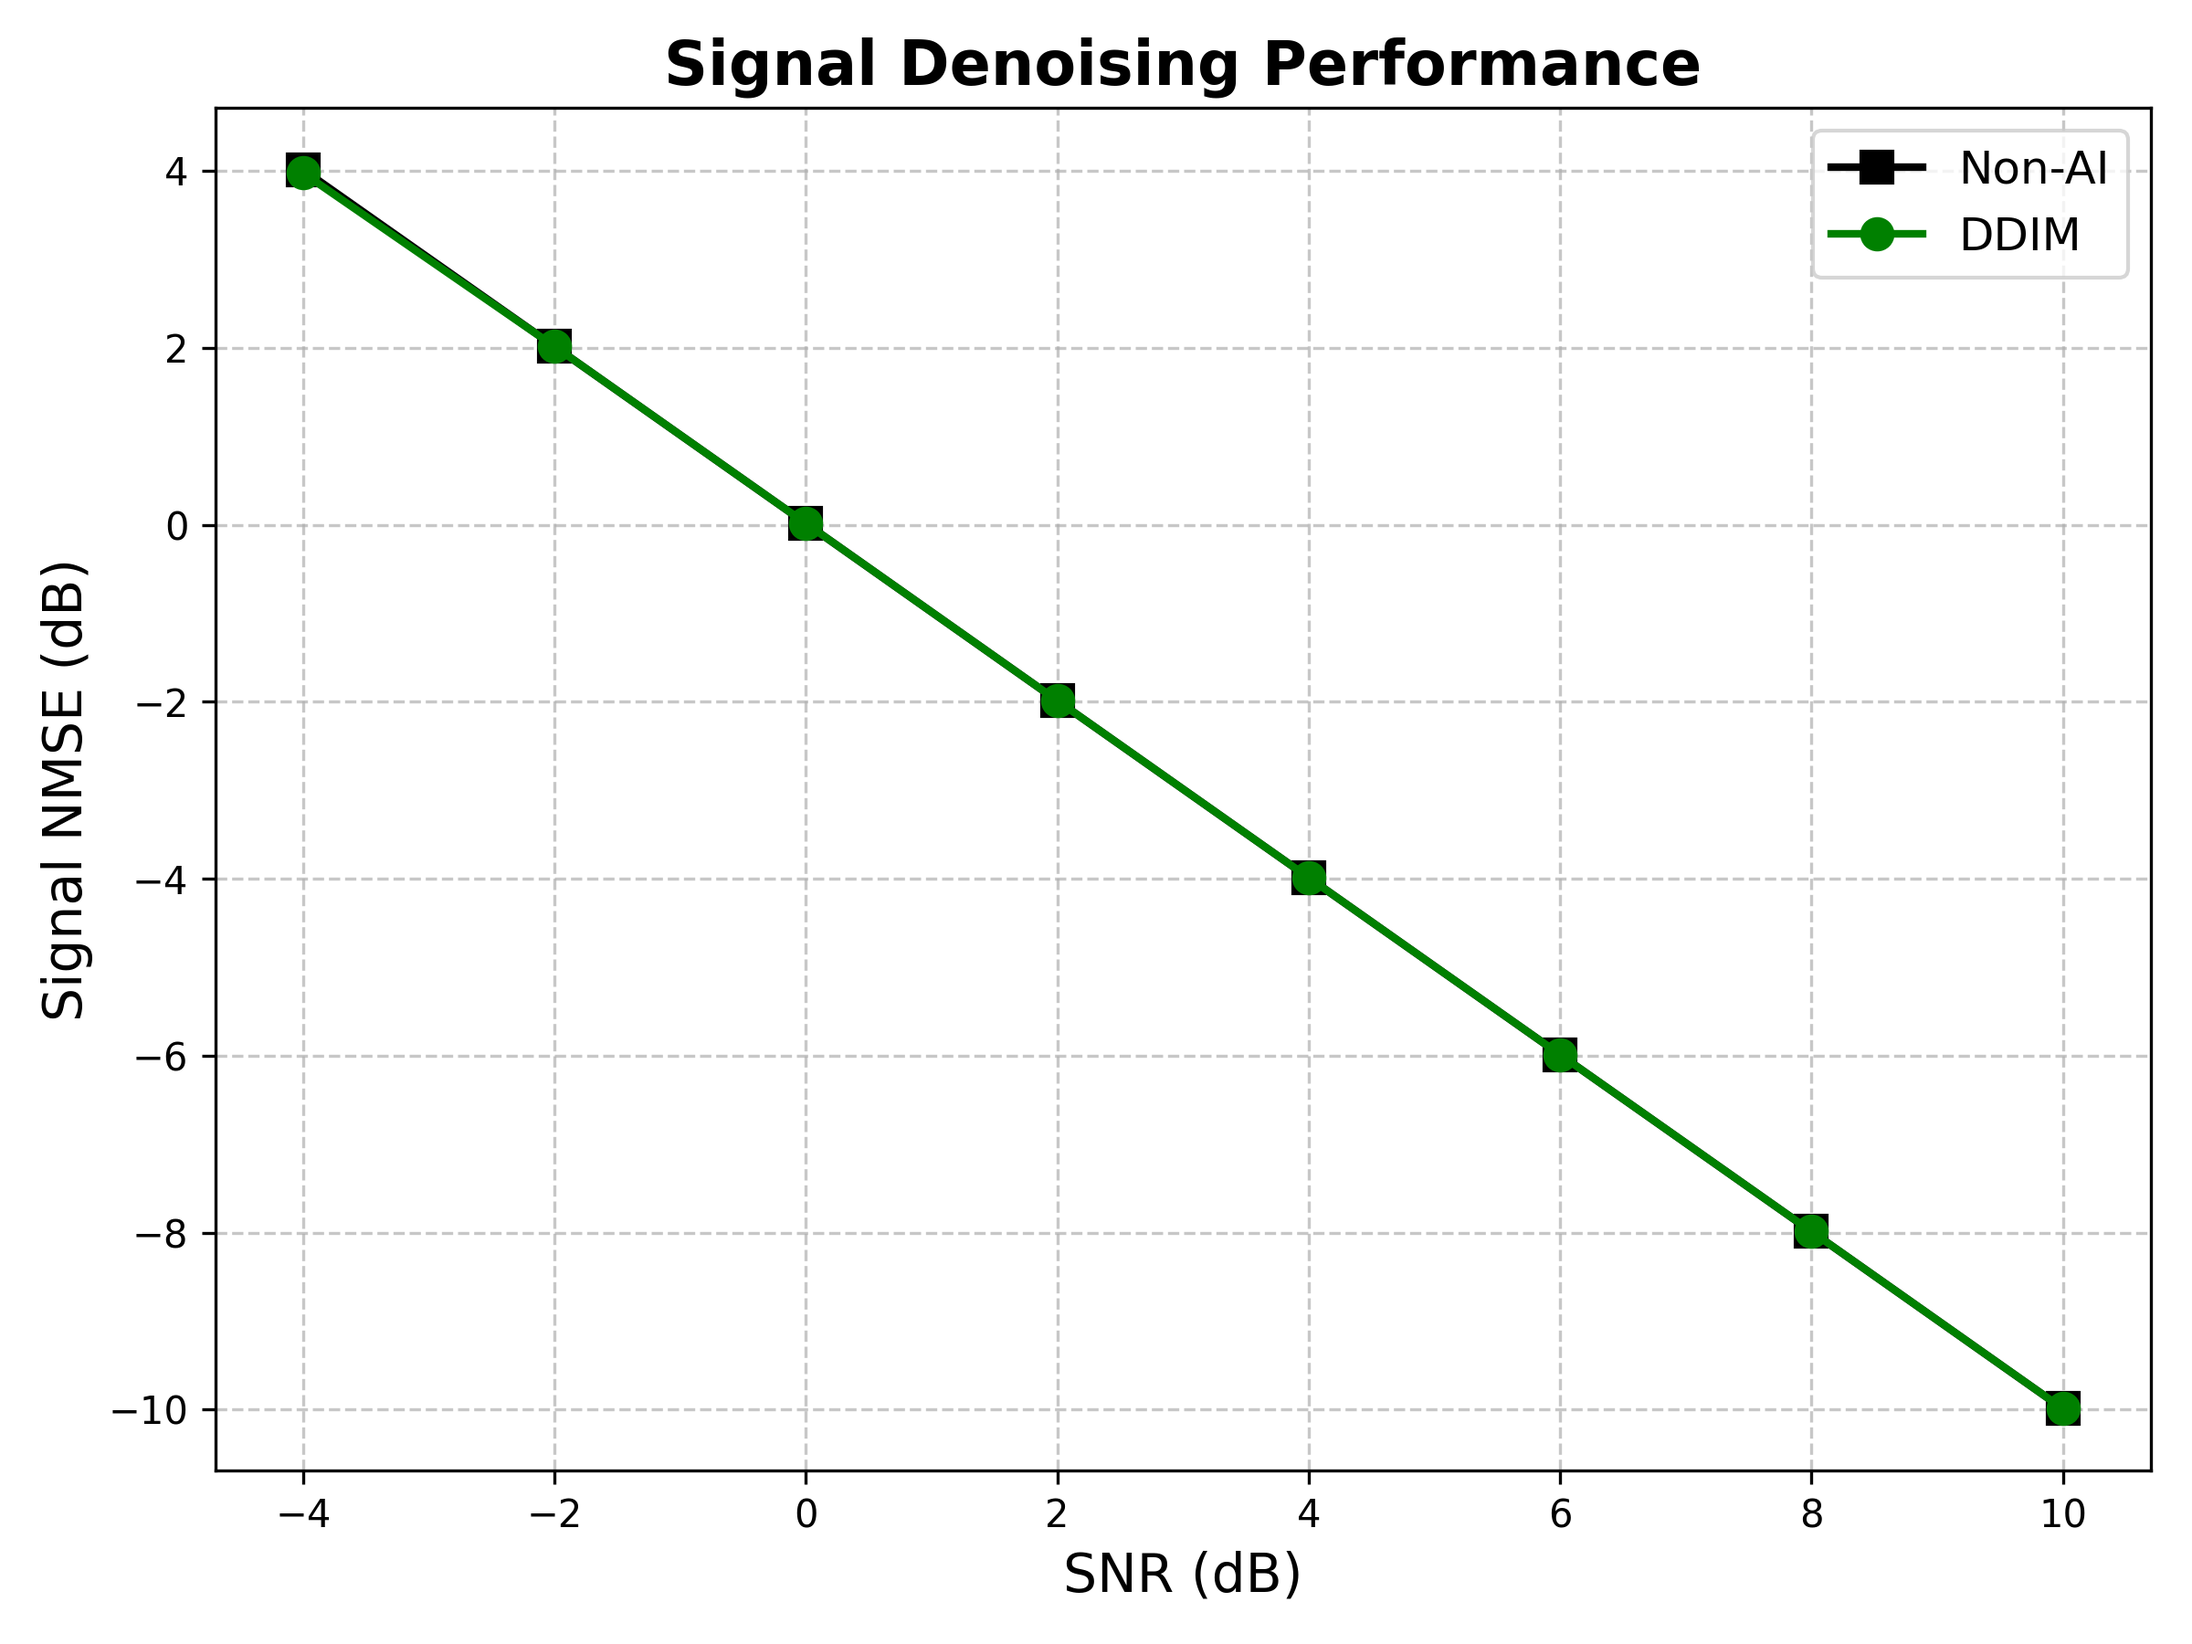
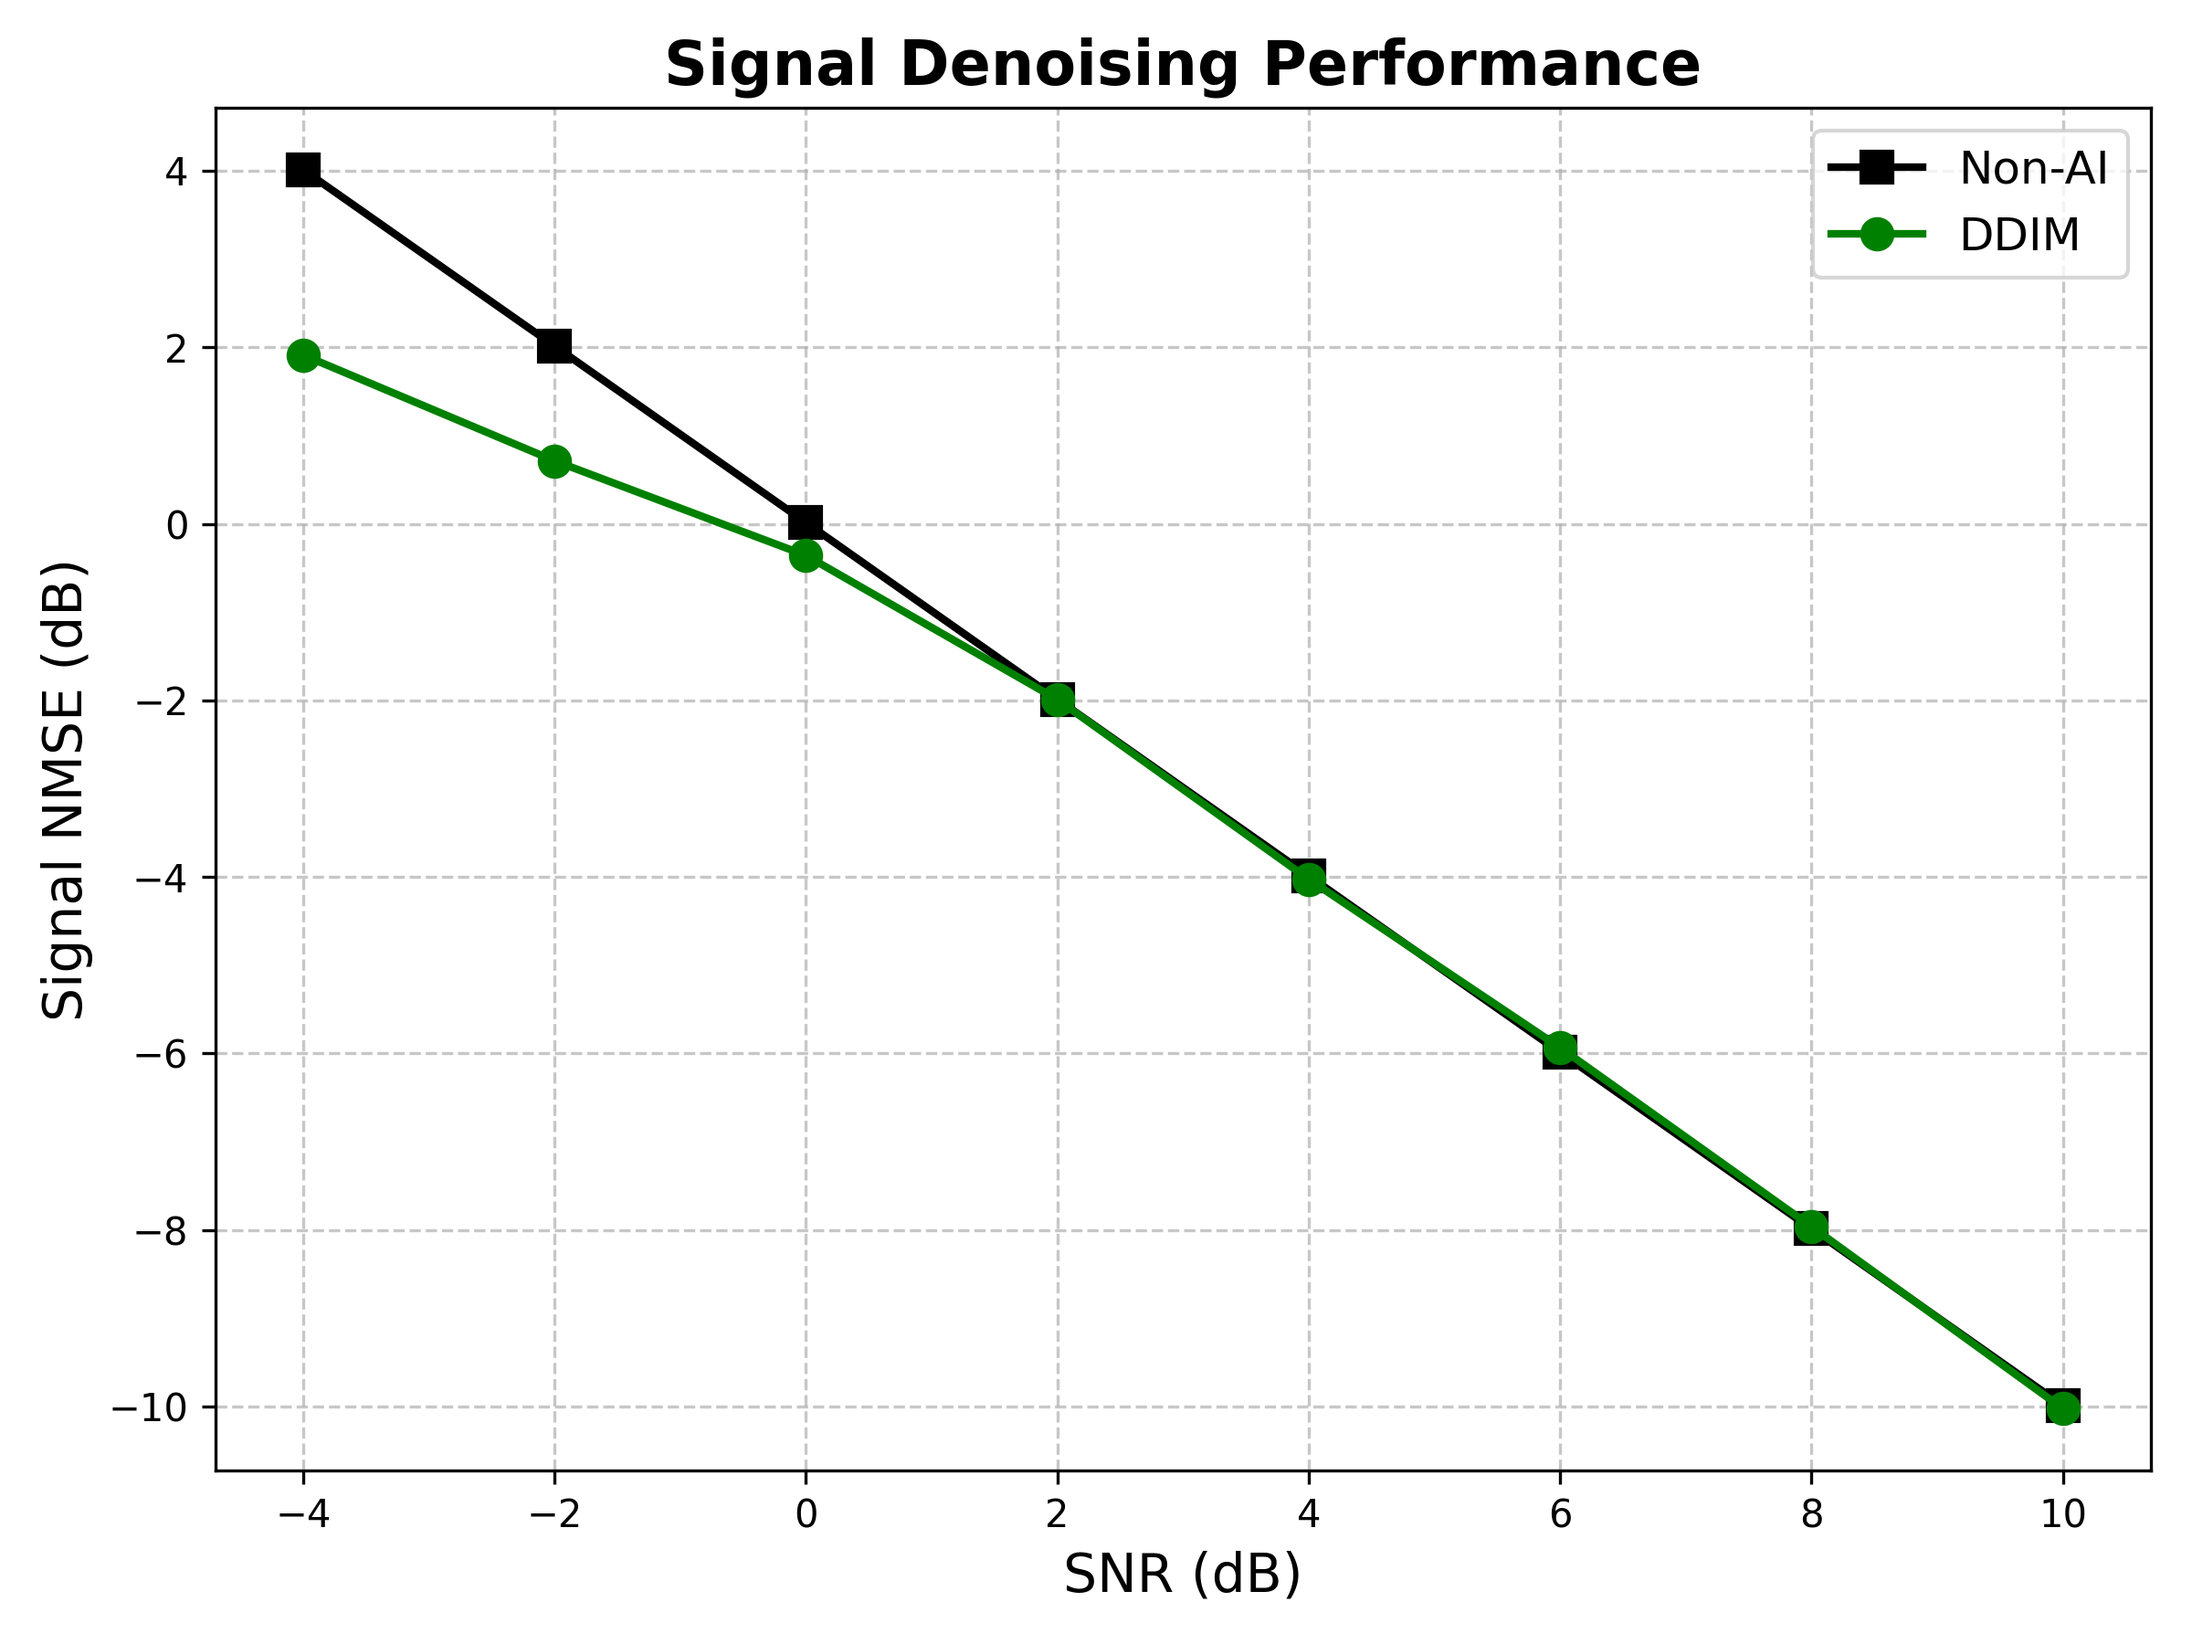
test(optimization): fine-tune lambda and EM constraints
Consolidated parameter experiments and tuning:
- Confirmed that NOT normalizing 't' in the MLP yields the best results (only max() working).
- Tuned parameters: set lambda = 1 with max(sigma, 0.15).
- Disabled monotone constraint in the EM algorithm (verified performance remains stable).

diff --git a/sim2/DDIM/em/stable_em_batch.py b/sim2/DDIM/em/stable_em_batch.py
@@ -240,20 +240,20 @@ def alternating_estimation_monotone_batch(x0_batch, N, P,
             optimizer_M.step()
             
             # 3. Check Monotone Condition
-            with torch.no_grad():
-                M_new = build_M()
-                new_losses = compute_loss(R_y, get_model_cov(M_new, theta_est))
+            # with torch.no_grad():
+            #     M_new = build_M()
+            #     new_losses = compute_loss(R_y, get_model_cov(M_new, theta_est))
                 
-                # Identify samples where loss increased
-                worse_mask = new_losses > (cur_losses + 1e-12)
+            #     # Identify samples where loss increased
+            #     worse_mask = new_losses > (cur_losses + 1e-12)
                 
-                if worse_mask.any():
-                    # Revert parameters for those samples
-                    if use_toeplitz:
-                        c_param.data[worse_mask] = prev_c[worse_mask]
-                    else:
-                        real_param.data[worse_mask] = prev_real[worse_mask]
-                        imag_param.data[worse_mask] = prev_imag[worse_mask]
+            #     if worse_mask.any():
+            #         # Revert parameters for those samples
+            #         if use_toeplitz:
+            #             c_param.data[worse_mask] = prev_c[worse_mask]
+            #         else:
+            #             real_param.data[worse_mask] = prev_real[worse_mask]
+            #             imag_param.data[worse_mask] = prev_imag[worse_mask]
 
     # Finalize
     with torch.no_grad():

diff --git a/sim2/DDIM/diffusion/ddim_sampler_parallel.py b/sim2/DDIM/diffusion/ddim_sampler_parallel.py
@@ -38,7 +38,7 @@ def ddim_epsnet_guided_sampler_batch(y_obs_complex, eps_net, snr,
             x0_hat = (x_t - sqrt_1m_a_cur * eps_pred) / (sqrt_a_cur + 1e-12)
 
             # guidance in x0 domain using observed y
-            grad_x0 = (y_real - x0_hat) / max(sigma_y2 + 1e-8, 1)
+            grad_x0 = (y_real - x0_hat) / max(sigma_y2 + 1e-8, 0.15)
             x0_hat_guided = x0_hat + guidance_lambda * grad_x0
 
             # compute eps_guided
@@ -60,7 +60,7 @@ def ddim_epsnet_guided_sampler_batch(y_obs_complex, eps_net, snr,
         sqrt_1m_a_last = torch.sqrt(1.0 - a_bar_last)
         x0_hat_final = (x_t - sqrt_1m_a_last * eps_final) / (sqrt_a_last + 1e-12)
         # final guidance
-        grad_x0 = (y_real - x0_hat_final) / (sigma_y2 + 1e-8)
+        grad_x0 = (y_real - x0_hat_final) / max(sigma_y2 + 1e-8, 0.15)
         x0_hat_final_guided = x0_hat_final + guidance_lambda * grad_x0
 
         # unstack back to (N, L)

diff --git a/sim2/DDIM/main.py b/sim2/DDIM/main.py
@@ -41,7 +41,7 @@ BETA_MIN=1e-4
 BETA_MAX=0.02
 T_DIFFUSION=1000.0
 NUM_SAMPLING_STEPS=50
-GUIDANCE_LAMBDA=1
+GUIDANCE_LAMBDA=0.3
 
 # testing settings
 MODEL_WEIGHT_FILE_NAME = f"DDIM_ep{NUM_EPOCHS}_lr{LR:.0e}_t{int(T_DIFFUSION)}_bmax{BETA_MAX:.0e}.pth"
@@ -118,7 +118,7 @@ elif MODE == 'test':
         # --- 1. denoising using DDIM guided sampler (N, S * L) -> (N, S * L) ---
         x0_batch_est = ddim_epsnet_guided_sampler_batch(Ys_batch, eps_net, snr,
                                 NUM_SAMPLING_STEPS, T_DIFFUSION, BETA_MIN, BETA_MAX, GUIDANCE_LAMBDA,
-                                device=device, apply_physics_projection=False)
+                                device=device, apply_physics_projection=True)
 
         # Deparallelize: x0_batch_est: (N, S * L) -> (N, S, L)-> (S, N, L) : x0_est_all
         x0_est_all = x0_batch_est.reshape(N, num_samples, L).permute(1, 0, 2)
